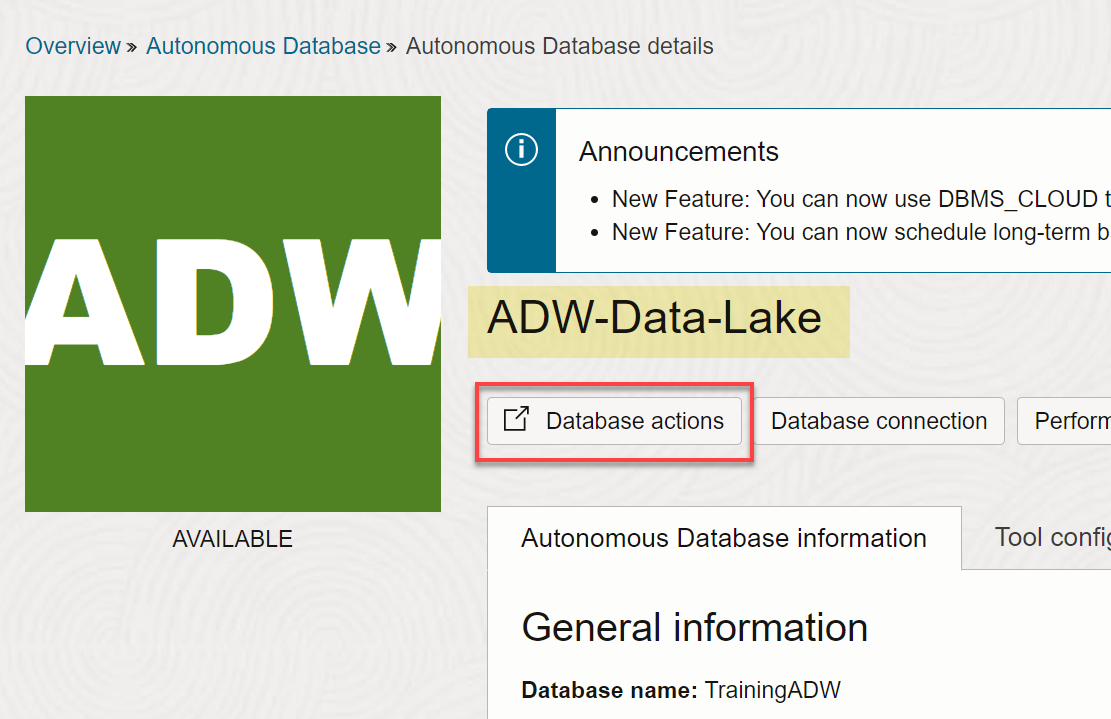
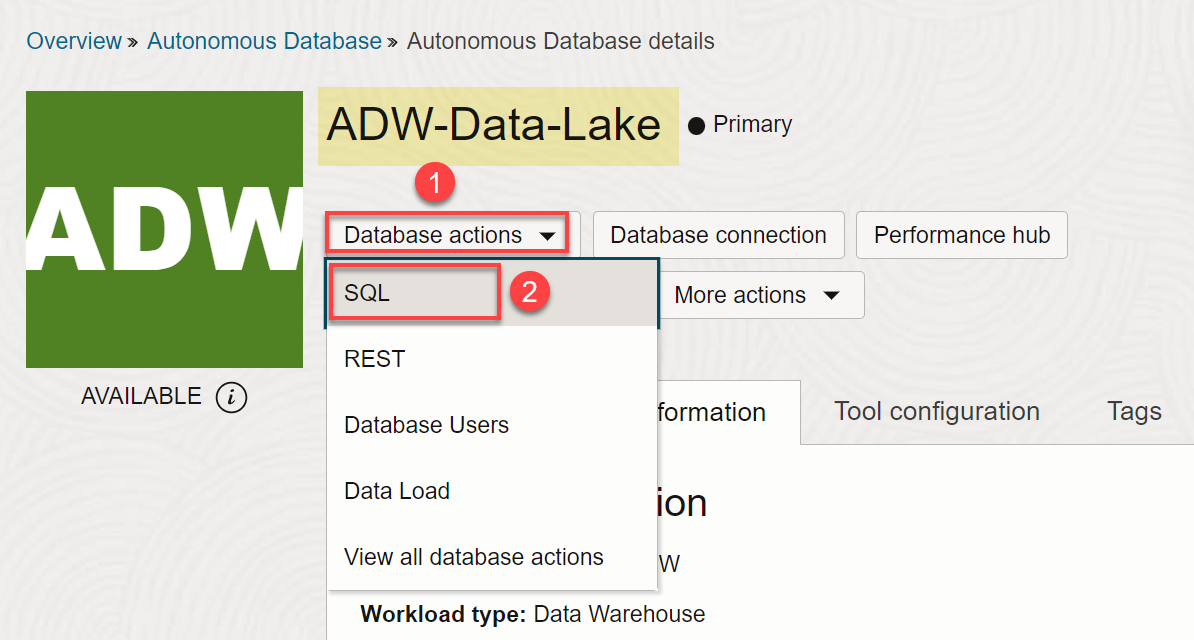
Quarterly QA
I added a new step per the PM's request in the Data Sharing PL/SQL workshop. I also made a minor edit (removed space) in the Data Lake workshop.

diff --git a/shared/adw-data-lake/build-data-lake/load-os-data-private/load-os-data-private.md b/shared/adw-data-lake/build-data-lake/load-os-data-private/load-os-data-private.md
@@ -12,6 +12,7 @@ Estimated Time: 20 minutes
 ### Objectives
 
 In this lab, you will:
+
 - Download to your local computer a comma-separated value (.csv) file containing a simulation of sensitive customer data
 - Create a private OCI Object Storage bucket
 - Upload the .csv file to the OCI private bucket
@@ -141,7 +142,7 @@ Find the base URL of the object you just uploaded to your private Object Storage
 
 ## Task 5: Generate an RSA Key Pair and Get the Key's Fingerprint
 
-_**IMPORTANT:** If you already have an RSA key pair in PEM format (minimum 2048 bits) and a fingerprint of the public key, you can skip this optional task and proceed to **Task 6**. To get your user's and tenancy's OCID, see [Where to Get the Tenancy's OCID and User's OCID](https://docs.oracle.com/en-us/iaas/Content/API/Concepts/apisigningkey.htm#five); however, going through the entire task might be easier for you as you can get all the information that you need from the **Configuration File Preview** dialog box when you create your keys    ._
+_**IMPORTANT:** If you already have an RSA key pair in PEM format (minimum 2048 bits) and a fingerprint of the public key, you can skip this optional task and proceed to **Task 6**. To get your user's and tenancy's OCID, see [Where to Get the Tenancy's OCID and User's OCID](https://docs.oracle.com/en-us/iaas/Content/API/Concepts/apisigningkey.htm#five); however, going through the entire task might be easier for you as you can get all the information that you need from the **Configuration File Preview** dialog box when you create your keys._
 
 In this task, you will get the following items that are required to create a Cloud location in the next task.
 
@@ -185,7 +186,7 @@ In this task, you will get the following items that are required to create a Clo
 
     **`oci-api-public-key.pem`**
 
-6. A checkmark should appear next to each Click **Add**. The key is added and the **Configuration File Preview** dialog box is displayed. The file snippet includes required parameters and values you'll need to create your configuration file.
+6. A checkmark should appear next to each button. Click **Add**. The key is added and the **Configuration File Preview** dialog box is displayed. The file snippet includes required parameters and values you'll need to create your configuration file.
 
     ![Configuration file preview.](./images/config-file-preview.png " ")
 
@@ -228,7 +229,7 @@ In this task, you define a connection to connect to an Oracle Object Storage buc
     + **Name:** Enter **`training-data-lake`**.
     + **Description:** Enter an optional description.
     + Click **Create Credential**. To access data in the Object Store, you need to enable your database user to authenticate itself with the Object Store using your OCI object store account and a credential. You do this by creating a private CREDENTIAL object for your user that stores this information encrypted in your Autonomous Data Warehouse. This information is only usable for your user schema.
-    + In the **Credential Credential** dialog box, specify the following:
+    + In the **Create Credential** dialog box, specify the following:
         + **Credential Type:** Select the **Oracle Cloud Infrastructure Signing Keys** option.
         + **Credential Name:** Enter **OBJ\_STORAGE\_CRED**. **Note:** The credential name must conform to Oracle object naming conventions, which do not allow spaces or hyphens.
         + **Fingerprint:** Enter the fingerprint for your RSA key pair that you copied earlier to a text file.

diff --git a/shared/adw-data-lake/use-data-sharing-plsql/create-user-storage-credentials/create-user-storage-credentials.md b/shared/adw-data-lake/use-data-sharing-plsql/create-user-storage-credentials/create-user-storage-credentials.md
@@ -31,13 +31,13 @@ This lab assumes that you have successfully completed all of the preceding labs 
 3. On the **Autonomous Databases** page, click your **ADW-Data-Lake** ADB instance.
     ![The Autonomous Database is displayed and highlighted.](./images/adb-page.png " ")
 
-4. On the **Autonomous Database details** page, click **Database actions**.
+4. On the **Autonomous Database details** page, click the **Database actions** drop-down list, and then click **SQL**.
 
     ![On the partial Autonomous Database Details page, the Database Actions button is highlighted.](./images/click-db-actions.png " ")
 
-5. The **Database Actions | Launchpad** Home page is displayed in a _**new tab in your browser**_. In the **Development** section, click the **SQL** card to display the SQL Worksheet.
+5. The SQL Worksheet is displayed.
 
-    ![The Database Actions Launchpad Home page is displayed. The Data Load card in the Data Studio section is highlighted.](./images/click-sql-card.png " ")
+    ![The SQL worksheet is displayed.](./images/sql-worksheet.png " ")
 
 ## Task 2: Create a Share Provider User and Grant Privileges to the User
 
@@ -103,6 +103,17 @@ Autonomous Database comes with a predefined database role named `DWROLE`. This r
     You are now logged in as the newly created **`share_provider`** user. In the **Development** section, click the **SQL** card to display the SQL Worksheet.
 
     ![Logged in as share_provider](images/logged-share-provider.png)
+
+4. Run the following query to determine if the user has the required privileges to share objects. Copy and paste the following query into your SQL Worksheet, and then click the **Run Statement** icon. A **`1`** result indicates that the user has the required privileges to share objects. A **`0`** result indicates that the user doesn't have the privileges to share objects. The user must revisit the previous steps.
+
+    ```
+    <copy>
+    SELECT dbms_share.can_create_share
+    FROM dual;
+    </copy>
+    ```
+
+    ![Determine if the user has the privilege to share](images/can-user-share.png)
 
 ## Task 3: Create an Oracle Object Storage Bucket
 
@@ -313,7 +324,7 @@ You may now proceed to the next lab.
 
 * **Author:** Lauran K. Serhal, Consulting User Assistance Developer
 * **Contributor:** Alexey Filanovskiy, Senior Principal Product Manager
-* **Last Updated By/Date:** Lauran K. Serhal, July 2023
+* **Last Updated By/Date:** Lauran K. Serhal, October 2023
 
 Data about movies in this workshop were sourced from Wikipedia.
 

diff --git a/shared/adw-data-lake/use-data-sharing-plsql/setup-workshop-environment/setup-workshop-environment.md b/shared/adw-data-lake/use-data-sharing-plsql/setup-workshop-environment/setup-workshop-environment.md
@@ -190,7 +190,7 @@ You may now proceed to the next lab.
 ## Acknowledgements
 
 * **Author:** Lauran K. Serhal, Consulting User Assistance Developer
-* **Last Updated By/Date:** Lauran Serhal, August 2023
+* **Last Updated By/Date:** Lauran Serhal, October 2023
 
 Data about movies in this workshop were sourced from Wikipedia.
 
